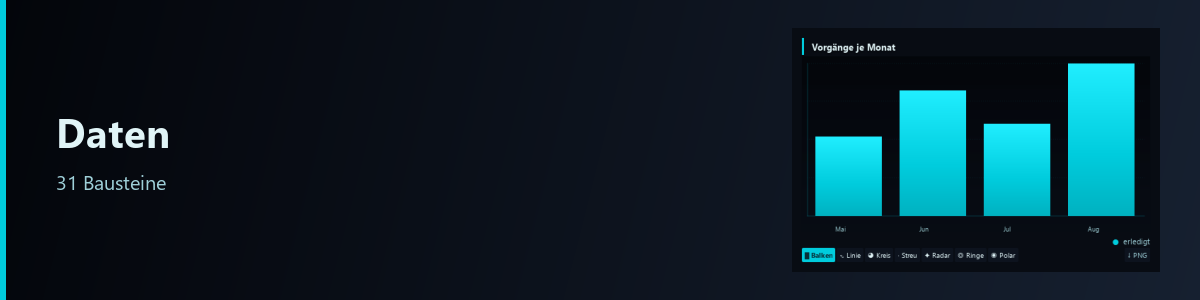
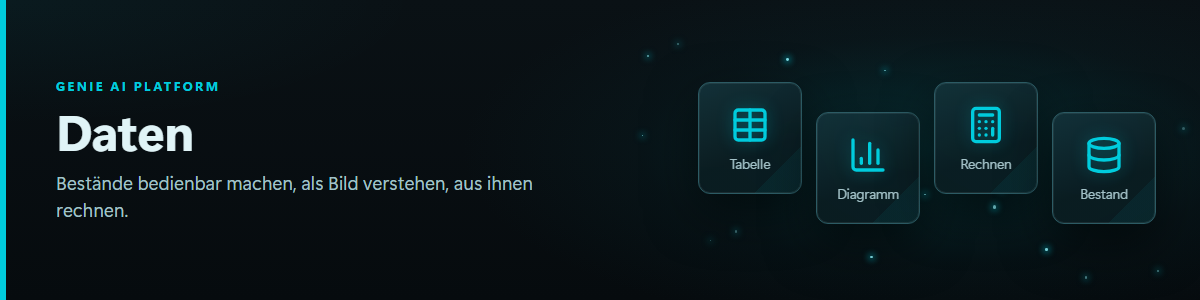
Startseite: Grisu Closed Beta und neue Bilder im Dark-Ocean-Glass-Look
Die Startseite zeigt die Plattform jetzt so, wie sie heute aussieht: ein neues
Kopfbild, ein Beta-Streifen mit Link zu Discussion #2 und zwei echte Aufnahmen
aus der Grisu Closed Beta (v2.2147.1). "Loslegen" heisst jetzt "Ausprobieren"
und verweist auf die Beta statt auf pip install, das ohne Quelltext hier nicht
geht. Das erste Beispiel ist "eine Liste unserer Projektaufgaben", weil Saetze
mit "Tabelle" in v2.2147.1 falsche Spalten liefern.

Die zehn Kopfbilder unter public/bilder/kopf (dunkel und hell) zeigen Titel und
Symbole statt der alten nachgebauten Bausteine; Namen und Masse sind gleich.
Die Alt-Texte in README und Seiten beschreiben die neuen Bilder.

Hinweis: schaufenster_zweig.py --bauen erzeugt diese Dateien neu und wuerde
die Aenderungen ueberschreiben, bis der Generator sie uebernimmt.

diff --git a/public/en/index.md b/public/en/index.md
@@ -7,7 +7,7 @@ icon: material/home
 
 <picture>
   <source media="(prefers-color-scheme: dark)" srcset="../bilder/kopf/start.png">
-  <img src="../bilder/kopf/start_hell.png" alt="Banner image: the headline “Beschreiben Sie es. Es entsteht.” next to a generated form with the fields Name, Abteilung and Gültig ab.">
+  <img src="../bilder/kopf/start_hell.png" alt="Banner image: the headline “Beschreiben Sie es. Es entsteht.” (Describe it. It gets built.) next to icons for one sentence, it gets built, interface and use.">
 </picture>
 
 Genie AI Platform is a working environment that assembles itself while you use it. You say in one
@@ -59,7 +59,7 @@ These figures are checked against the platform itself; they cannot go stale with
 
     ---
 
-    <picture><source media="(prefers-color-scheme: dark)" srcset="../bilder/kopf/landkarte.png"><img src="../bilder/kopf/landkarte_hell.png" alt="Bannerbild: die Überschrift „Landkarte der Bausteine“ neben einer gebauten Tabelle mit Bereichen und ihren Bausteinzahlen."></picture>
+    <picture><source media="(prefers-color-scheme: dark)" srcset="../bilder/kopf/landkarte.png"><img src="../bilder/kopf/landkarte_hell.png" alt="Bannerbild: die Überschrift „Landkarte der Bausteine“ neben Symbolen für Landkarte, 146 Bausteine, 23 Familien und Bereiche."></picture>
 
     What there is and where it belongs — 146 blocks in 23 families.
 
@@ -69,7 +69,7 @@ These figures are checked against the platform itself; they cannot go stale with
 
     ---
 
-    <picture><source media="(prefers-color-scheme: dark)" srcset="../bilder/kopf/bausteine.png"><img src="../bilder/kopf/bausteine_hell.png" alt="Bannerbild: die Überschrift „Bausteine nachschlagen“ neben einem gebauten Verlauf mit drei Stationen."></picture>
+    <picture><source media="(prefers-color-scheme: dark)" srcset="../bilder/kopf/bausteine.png"><img src="../bilder/kopf/bausteine_hell.png" alt="Bannerbild: die Überschrift „Bausteine nachschlagen“ neben Symbolen für Beschreibung, Suchen, Verzeichnis und Verwendung."></picture>
 
     Every block described on its own — what it is, when to use it.
 
@@ -79,7 +79,7 @@ These figures are checked against the platform itself; they cannot go stale with
 
     ---
 
-    <picture><source media="(prefers-color-scheme: dark)" srcset="../bilder/kopf/oberflaeche.png"><img src="../bilder/kopf/oberflaeche_hell.png" alt="Bannerbild: die Überschrift „Oberfläche“ neben vier gebauten Kacheln mit den Bereichen Technik, Vertrieb, Betrieb und Qualität."></picture>
+    <picture><source media="(prefers-color-scheme: dark)" srcset="../bilder/kopf/oberflaeche.png"><img src="../bilder/kopf/oberflaeche_hell.png" alt="Bannerbild: die Überschrift „Oberfläche“ neben Symbolen für Eingeben, Auswählen, Anzeigen und Ordnen."></picture>
 
     Enter, choose, display, arrange — 62 blocks for the surface.
 
@@ -89,7 +89,7 @@ These figures are checked against the platform itself; they cannot go stale with
 
     ---
 
-    <picture><source media="(prefers-color-scheme: dark)" srcset="../bilder/kopf/daten.png"><img src="../bilder/kopf/daten_hell.png" alt="Bannerbild: die Überschrift „Daten“ neben einem gebauten Balkendiagramm „Vorgänge je Monat“ mit vier Säulen."></picture>
+    <picture><source media="(prefers-color-scheme: dark)" srcset="../bilder/kopf/daten.png"><img src="../bilder/kopf/daten_hell.png" alt="Bannerbild: die Überschrift „Daten“ neben Symbolen für Tabelle, Diagramm, Rechnen und Bestand."></picture>
 
     Make data operable, understand it as a picture, calculate from it.
 
@@ -99,7 +99,7 @@ These figures are checked against the platform itself; they cannot go stale with
 
     ---
 
-    <picture><source media="(prefers-color-scheme: dark)" srcset="../bilder/kopf/medien_und_web.png"><img src="../bilder/kopf/medien_und_web_hell.png" alt="Bannerbild: die Überschrift „Medien und Web“ neben einer gebauten Liste „Was hier hineingeht“ mit vier Einträgen von Video bis PDF."></picture>
+    <picture><source media="(prefers-color-scheme: dark)" srcset="../bilder/kopf/medien_und_web.png"><img src="../bilder/kopf/medien_und_web_hell.png" alt="Bannerbild: die Überschrift „Medien und Web“ neben Symbolen für Video, Ton, Browser, Karten und PDF."></picture>
 
     Video and audio, the embedded browser, maps, PDF.
 
@@ -109,7 +109,7 @@ These figures are checked against the platform itself; they cannot go stale with
 
     ---
 
-    <picture><source media="(prefers-color-scheme: dark)" srcset="../bilder/kopf/handel.png"><img src="../bilder/kopf/handel_hell.png" alt="Bannerbild: die Überschrift „Handel“ neben einer gebauten Warenkorb-Übersicht mit Positionen und Endsumme."></picture>
+    <picture><source media="(prefers-color-scheme: dark)" srcset="../bilder/kopf/handel.png"><img src="../bilder/kopf/handel_hell.png" alt="Bannerbild: die Überschrift „Handel“ neben Symbolen für Preis, Produkt, Warenkorb und Bewertung."></picture>
 
     Price, product, cart, rating — when commerce data belongs on screen.
 

diff --git a/public/de/index.md b/public/de/index.md
@@ -5,7 +5,7 @@ icon: material/home
 
 <picture>
   <source media="(prefers-color-scheme: dark)" srcset="../bilder/kopf/start.png">
-  <img src="../bilder/kopf/start_hell.png" alt="Bannerbild: die Überschrift „Beschreiben Sie es. Es entsteht.“ neben einem gebauten Formular mit den Feldern Name, Abteilung und Gültig ab.">
+  <img src="../bilder/kopf/start_hell.png" alt="Bannerbild: die Überschrift „Beschreiben Sie es. Es entsteht.“ neben Symbolen für Ein Satz, Es entsteht, Fläche und Bedienen.">
 </picture>
 
 Genie AI Platform ist eine Arbeitsumgebung, die sich beim Benutzen selbst zusammenbaut. Sie
@@ -59,7 +59,7 @@ dass es auffällt.
 
     ---
 
-    <picture><source media="(prefers-color-scheme: dark)" srcset="../bilder/kopf/landkarte.png"><img src="../bilder/kopf/landkarte_hell.png" alt="Bannerbild: die Überschrift „Landkarte der Bausteine“ neben einer gebauten Tabelle mit Bereichen und ihren Bausteinzahlen."></picture>
+    <picture><source media="(prefers-color-scheme: dark)" srcset="../bilder/kopf/landkarte.png"><img src="../bilder/kopf/landkarte_hell.png" alt="Bannerbild: die Überschrift „Landkarte der Bausteine“ neben Symbolen für Landkarte, 146 Bausteine, 23 Familien und Bereiche."></picture>
 
     Was es gibt und wo es hingehört — 146 Bausteine in 23 Familien.
 
@@ -69,7 +69,7 @@ dass es auffällt.
 
     ---
 
-    <picture><source media="(prefers-color-scheme: dark)" srcset="../bilder/kopf/bausteine.png"><img src="../bilder/kopf/bausteine_hell.png" alt="Bannerbild: die Überschrift „Bausteine nachschlagen“ neben einem gebauten Verlauf mit drei Stationen."></picture>
+    <picture><source media="(prefers-color-scheme: dark)" srcset="../bilder/kopf/bausteine.png"><img src="../bilder/kopf/bausteine_hell.png" alt="Bannerbild: die Überschrift „Bausteine nachschlagen“ neben Symbolen für Beschreibung, Suchen, Verzeichnis und Verwendung."></picture>
 
     Jeder Baustein einzeln beschrieben — was er ist, wann man ihn nimmt.
 
@@ -79,7 +79,7 @@ dass es auffällt.
 
     ---
 
-    <picture><source media="(prefers-color-scheme: dark)" srcset="../bilder/kopf/oberflaeche.png"><img src="../bilder/kopf/oberflaeche_hell.png" alt="Bannerbild: die Überschrift „Oberfläche“ neben vier gebauten Kacheln mit den Bereichen Technik, Vertrieb, Betrieb und Qualität."></picture>
+    <picture><source media="(prefers-color-scheme: dark)" srcset="../bilder/kopf/oberflaeche.png"><img src="../bilder/kopf/oberflaeche_hell.png" alt="Bannerbild: die Überschrift „Oberfläche“ neben Symbolen für Eingeben, Auswählen, Anzeigen und Ordnen."></picture>
 
     Eingeben, auswählen, anzeigen, ordnen — 62 Bausteine für die Fläche.
 
@@ -89,7 +89,7 @@ dass es auffällt.
 
     ---
 
-    <picture><source media="(prefers-color-scheme: dark)" srcset="../bilder/kopf/daten.png"><img src="../bilder/kopf/daten_hell.png" alt="Bannerbild: die Überschrift „Daten“ neben einem gebauten Balkendiagramm „Vorgänge je Monat“ mit vier Säulen."></picture>
+    <picture><source media="(prefers-color-scheme: dark)" srcset="../bilder/kopf/daten.png"><img src="../bilder/kopf/daten_hell.png" alt="Bannerbild: die Überschrift „Daten“ neben Symbolen für Tabelle, Diagramm, Rechnen und Bestand."></picture>
 
     Bestände bedienbar machen, als Bild verstehen, aus ihnen rechnen.
 
@@ -99,7 +99,7 @@ dass es auffällt.
 
     ---
 
-    <picture><source media="(prefers-color-scheme: dark)" srcset="../bilder/kopf/medien_und_web.png"><img src="../bilder/kopf/medien_und_web_hell.png" alt="Bannerbild: die Überschrift „Medien und Web“ neben einer gebauten Liste „Was hier hineingeht“ mit vier Einträgen von Video bis PDF."></picture>
+    <picture><source media="(prefers-color-scheme: dark)" srcset="../bilder/kopf/medien_und_web.png"><img src="../bilder/kopf/medien_und_web_hell.png" alt="Bannerbild: die Überschrift „Medien und Web“ neben Symbolen für Video, Ton, Browser, Karten und PDF."></picture>
 
     Video und Ton, der eingebettete Browser, Karten, PDF.
 
@@ -109,7 +109,7 @@ dass es auffällt.
 
     ---
 
-    <picture><source media="(prefers-color-scheme: dark)" srcset="../bilder/kopf/handel.png"><img src="../bilder/kopf/handel_hell.png" alt="Bannerbild: die Überschrift „Handel“ neben einer gebauten Warenkorb-Übersicht mit Positionen und Endsumme."></picture>
+    <picture><source media="(prefers-color-scheme: dark)" srcset="../bilder/kopf/handel.png"><img src="../bilder/kopf/handel_hell.png" alt="Bannerbild: die Überschrift „Handel“ neben Symbolen für Preis, Produkt, Warenkorb und Bewertung."></picture>
 
     Preis, Produkt, Warenkorb, Bewertung — wenn Handelsangaben ins Bild gehören.
 

diff --git a/public/de/typen/index.md b/public/de/typen/index.md
@@ -6,7 +6,7 @@ icon: material/view-grid
 
 <picture>
   <source media="(prefers-color-scheme: dark)" srcset="../../bilder/kopf/bausteine.png">
-  <img src="../../bilder/kopf/bausteine_hell.png" alt="Bannerbild: die Überschrift „Bausteine nachschlagen“ neben einem gebauten Verlauf mit drei Stationen.">
+  <img src="../../bilder/kopf/bausteine_hell.png" alt="Bannerbild: die Überschrift „Bausteine nachschlagen“ neben Symbolen für Beschreibung, Suchen, Verzeichnis und Verwendung.">
 </picture>
 
 Die Plattform bringt **146 Bausteine** in **23 Familien** mit. Jeder davon lässt sich in einem Satz anfordern — die Konstruktion wählt den passenden aus.

diff --git a/public/de/sicherheit.md b/public/de/sicherheit.md
@@ -5,7 +5,7 @@ icon: material/shield-lock
 
 <picture>
   <source media="(prefers-color-scheme: dark)" srcset="../bilder/kopf/sicherheit.png">
-  <img src="../bilder/kopf/sicherheit_hell.png" alt="Bannerbild: die Überschrift „Sicherheit“ neben einer gebauten Liste aus Schlüssel und Wert mit den drei Rechtestufen.">
+  <img src="../bilder/kopf/sicherheit_hell.png" alt="Bannerbild: die Überschrift „Sicherheit“ neben Symbolen für Schutzstufe, drei Rechtestufen, Dateiprüfung und abgeschirmte Ausführung.">
 </picture>
 
 Eine Plattform, die auf Zuruf Bedienflächen baut und dabei auch Anweisungen ausführen kann,

diff --git a/public/de/landkarte.md b/public/de/landkarte.md
@@ -5,7 +5,7 @@ icon: material/map
 
 <picture>
   <source media="(prefers-color-scheme: dark)" srcset="../bilder/kopf/landkarte.png">
-  <img src="../bilder/kopf/landkarte_hell.png" alt="Bannerbild: die Überschrift „Landkarte der Bausteine“ neben einer gebauten Tabelle mit Bereichen und ihren Bausteinzahlen.">
+  <img src="../bilder/kopf/landkarte_hell.png" alt="Bannerbild: die Überschrift „Landkarte der Bausteine“ neben Symbolen für Landkarte, 146 Bausteine, 23 Familien und Bereiche.">
 </picture>
 
 Die Plattform bringt **146 Bausteine** in **23 Familien** mit. <!-- fakt: bausteine, familien -->

diff --git a/public/de/oberflaeche.md b/public/de/oberflaeche.md
@@ -5,7 +5,7 @@ icon: material/view-dashboard
 
 <picture>
   <source media="(prefers-color-scheme: dark)" srcset="../bilder/kopf/oberflaeche.png">
-  <img src="../bilder/kopf/oberflaeche_hell.png" alt="Bannerbild: die Überschrift „Oberfläche“ neben vier gebauten Kacheln mit den Bereichen Technik, Vertrieb, Betrieb und Qualität.">
+  <img src="../bilder/kopf/oberflaeche_hell.png" alt="Bannerbild: die Überschrift „Oberfläche“ neben Symbolen für Eingeben, Auswählen, Anzeigen und Ordnen.">
 </picture>
 
 Mit **62 Bausteinen** ist dies der größte Bereich der Plattform — alles, womit ein Mensch

diff --git a/public/de/sprache_und_stimme.md b/public/de/sprache_und_stimme.md
@@ -5,7 +5,7 @@ icon: material/microphone
 
 <picture>
   <source media="(prefers-color-scheme: dark)" srcset="../bilder/kopf/sprache_und_stimme.png">
-  <img src="../bilder/kopf/sprache_und_stimme_hell.png" alt="Bannerbild: die Überschrift „Sprache und Stimme“ neben einer gebauten Rückmeldung „Diktat übernommen“.">
+  <img src="../bilder/kopf/sprache_und_stimme_hell.png" alt="Bannerbild: die Überschrift „Sprache und Stimme“ neben Symbolen für Vorlesen, Diktat, Übersetzen und Stimmen.">
 </picture>
 
 Die Plattform kann zuhören und sprechen. Beides läuft, soweit es geht, auf Ihrem eigenen

diff --git a/public/de/medien_und_web.md b/public/de/medien_und_web.md
@@ -5,7 +5,7 @@ icon: material/play-box
 
 <picture>
   <source media="(prefers-color-scheme: dark)" srcset="../bilder/kopf/medien_und_web.png">
-  <img src="../bilder/kopf/medien_und_web_hell.png" alt="Bannerbild: die Überschrift „Medien und Web“ neben einer gebauten Liste „Was hier hineingeht“ mit vier Einträgen von Video bis PDF.">
+  <img src="../bilder/kopf/medien_und_web_hell.png" alt="Bannerbild: die Überschrift „Medien und Web“ neben Symbolen für Video, Ton, Browser, Karten und PDF.">
 </picture>
 
 Die Plattform bringt einen vollwertigen Browser, einen Medienspieler und eine

diff --git a/public/de/kommunikation.md b/public/de/kommunikation.md
@@ -5,7 +5,7 @@ icon: material/email
 
 <picture>
   <source media="(prefers-color-scheme: dark)" srcset="../bilder/kopf/kommunikation.png">
-  <img src="../bilder/kopf/kommunikation_hell.png" alt="Bannerbild: die Überschrift „Kommunikation“ neben einem gebauten Kommentarfaden mit zwei Beiträgen.">
+  <img src="../bilder/kopf/kommunikation_hell.png" alt="Bannerbild: die Überschrift „Kommunikation“ neben Symbolen für E-Mail, Kontakte, Beiträge und soziale Netze.">
 </picture>
 
 Die Plattform kann E-Mail-Postfächer, Kontakte und Beiträge aus sozialen Netzen in dieselbe

diff --git a/public/de/daten.md b/public/de/daten.md
@@ -5,7 +5,7 @@ icon: material/database
 
 <picture>
   <source media="(prefers-color-scheme: dark)" srcset="../bilder/kopf/daten.png">
-  <img src="../bilder/kopf/daten_hell.png" alt="Bannerbild: die Überschrift „Daten“ neben einem gebauten Balkendiagramm „Vorgänge je Monat“ mit vier Säulen.">
+  <img src="../bilder/kopf/daten_hell.png" alt="Bannerbild: die Überschrift „Daten“ neben Symbolen für Tabelle, Diagramm, Rechnen und Bestand.">
 </picture>
 
 **31 Bausteine** für alles, was mit Datenbeständen zu tun hat: sie bedienbar machen, sie als

diff --git a/public/de/handel.md b/public/de/handel.md
@@ -5,7 +5,7 @@ icon: material/cart
 
 <picture>
   <source media="(prefers-color-scheme: dark)" srcset="../bilder/kopf/handel.png">
-  <img src="../bilder/kopf/handel_hell.png" alt="Bannerbild: die Überschrift „Handel“ neben einer gebauten Warenkorb-Übersicht mit Positionen und Endsumme.">
+  <img src="../bilder/kopf/handel_hell.png" alt="Bannerbild: die Überschrift „Handel“ neben Symbolen für Preis, Produkt, Warenkorb und Bewertung.">
 </picture>
 
 **Sechs Bausteine** für Handelsangaben: Preis, Produkt, Warenkorb, Gutschein, Bewertung,

diff --git a/public/en/daten.md b/public/en/daten.md
@@ -7,7 +7,7 @@ icon: material/database
 
 <picture>
   <source media="(prefers-color-scheme: dark)" srcset="../bilder/kopf/daten.png">
-  <img src="../bilder/kopf/daten_hell.png" alt="Bannerbild: die Überschrift „Daten“ neben einem gebauten Balkendiagramm „Vorgänge je Monat“ mit vier Säulen.">
+  <img src="../bilder/kopf/daten_hell.png" alt="Bannerbild: die Überschrift „Daten“ neben Symbolen für Tabelle, Diagramm, Rechnen und Bestand.">
 </picture>
 
 !!! info "Machine translation"
